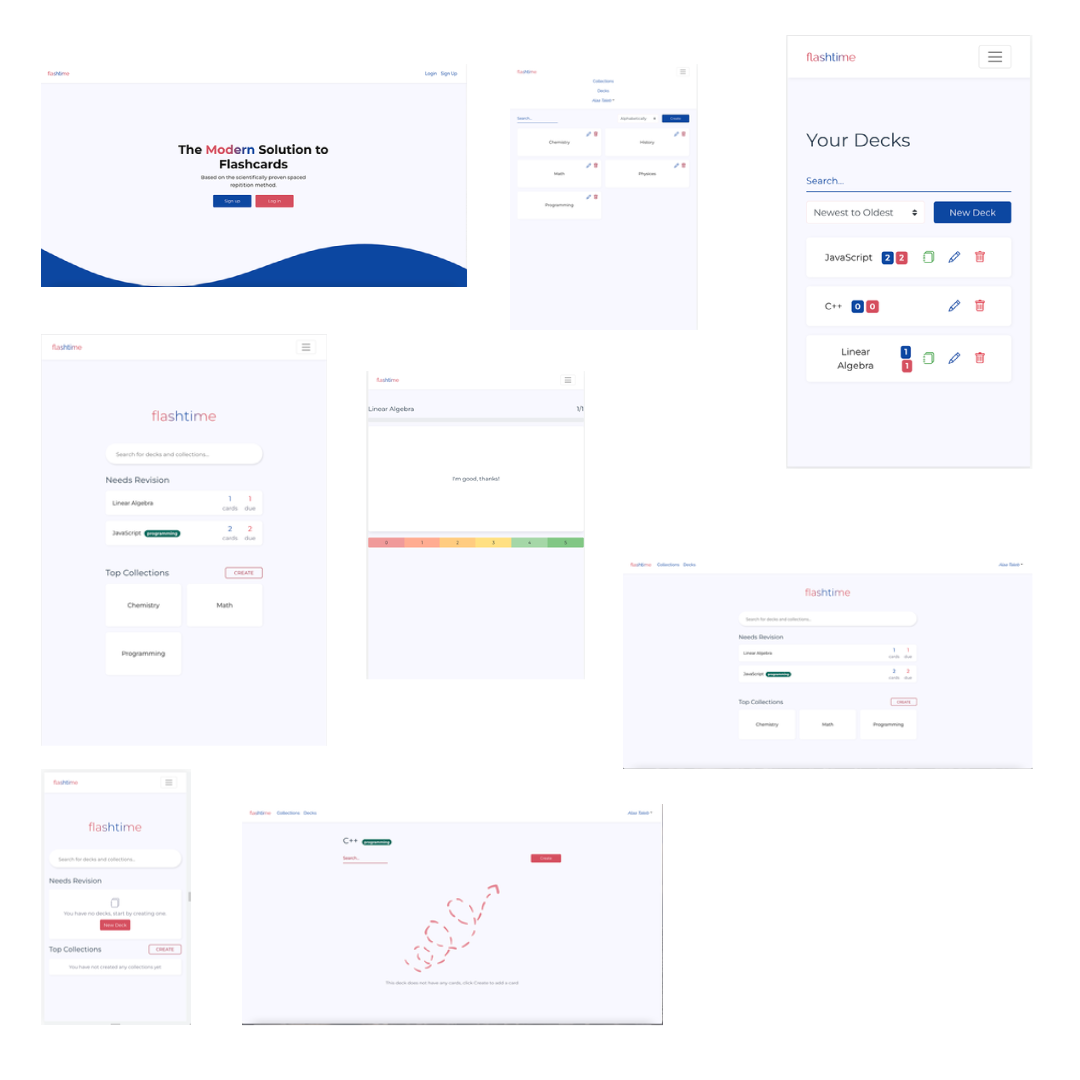
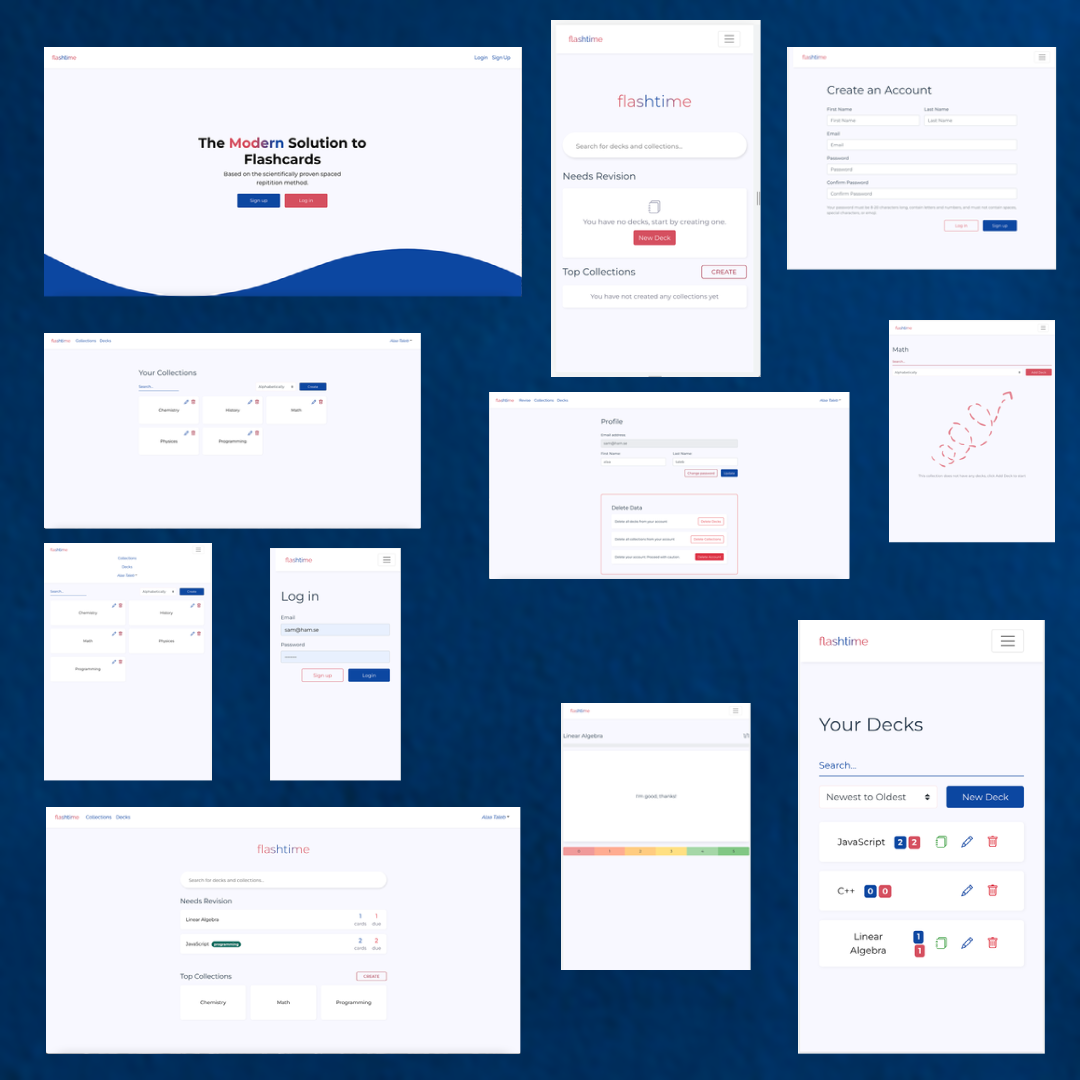
resolve readme pictures

diff --git a/README.md b/README.md
@@ -4,34 +4,34 @@ Latest version: https://git.ita.chalmers.se/courses/dit341/group-00-web (public 
 
 ## Project Structure
 
-| File        | Purpose           | What you do?  |
-| ------------- | ------------- | ----- |
-| `server/` | Backend server code | All your server code |
-| [server/README.md](server/README.md) | Everything about the server | **READ ME** carefully! |
-| `client/` | Frontend client code | All your client code |
-| [client/README.md](client/README.md) | Everything about the client | **READ ME** carefully! |
-| [docs/DEPLOYMENT.md](docs/DEPLOYMENT.md) | Free online production deployment | Deploy your app online in production mode |
-| [docs/LOCAL_DEPLOYMENT.md](docs/LOCAL_DEPLOYMENT.md) | Local production deployment | Deploy your app local in production mode |
+| File                                                 | Purpose                           | What you do?                              |
+| ---------------------------------------------------- | --------------------------------- | ----------------------------------------- |
+| `server/`                                            | Backend server code               | All your server code                      |
+| [server/README.md](server/README.md)                 | Everything about the server       | **READ ME** carefully!                    |
+| `client/`                                            | Frontend client code              | All your client code                      |
+| [client/README.md](client/README.md)                 | Everything about the client       | **READ ME** carefully!                    |
+| [docs/DEPLOYMENT.md](docs/DEPLOYMENT.md)             | Free online production deployment | Deploy your app online in production mode |
+| [docs/LOCAL_DEPLOYMENT.md](docs/LOCAL_DEPLOYMENT.md) | Local production deployment       | Deploy your app local in production mode  |
 
 ## Requirements
 
 The version numbers in brackets indicate the tested versions but feel free to use more recent versions.
 You can also use alternative tools if you know how to configure them (e.g., Firefox instead of Chrome).
 
-* [Git](https://git-scm.com/) (v2) => [installation instructions](https://www.atlassian.com/git/tutorials/install-git)
-  * [Add your Git username and set your email](https://docs.gitlab.com/ce/gitlab-basics/start-using-git.html#add-your-git-username-and-set-your-email)
-    * `git config --global user.name "YOUR_USERNAME"` => check `git config --global user.name`
-    * `git config --global user.email "email@example.com"` => check `git config --global user.email`
-  * > **Windows users**: We recommend to use the [Git Bash](https://www.atlassian.com/git/tutorials/git-bash) shell from your Git installation or the Bash shell from the [Windows Subsystem for Linux](https://docs.microsoft.com/en-us/windows/wsl/install-win10) to run all shell commands for this project.
-* [Chalmers GitLab](https://git.ita.chalmers.se/) => Login with your **Chalmers CID** choosing "Sign in with" **Chalmers Login**. (contact [support@chalmers.se](mailto:support@chalmers.se) if you don't have one)
-  * DIT341 course group: https://git.ita.chalmers.se/courses/dit341
-  * [Setup SSH key with Gitlab](https://docs.gitlab.com/ee/ssh/)
-    * Create an SSH key pair `ssh-keygen -t ed25519 -C "email@example.com"` (skip if you already have one)
-    * Add your public SSH key to your Gitlab profile under https://git.ita.chalmers.se/profile/keys
-    * Make sure the email you use to commit is registered under https://git.ita.chalmers.se/profile/emails
-  * Checkout the [Backend-Frontend](https://git.ita.chalmers.se/courses/dit341/group-00-web) template `git clone git@git.ita.chalmers.se:courses/dit341/group-00-web.git`
-* [Server Requirements](./server/README.md#Requirements)
-* [Client Requirements](./client/README.md#Requirements)
+- [Git](https://git-scm.com/) (v2) => [installation instructions](https://www.atlassian.com/git/tutorials/install-git)
+  - [Add your Git username and set your email](https://docs.gitlab.com/ce/gitlab-basics/start-using-git.html#add-your-git-username-and-set-your-email)
+    - `git config --global user.name "YOUR_USERNAME"` => check `git config --global user.name`
+    - `git config --global user.email "email@example.com"` => check `git config --global user.email`
+  - > **Windows users**: We recommend to use the [Git Bash](https://www.atlassian.com/git/tutorials/git-bash) shell from your Git installation or the Bash shell from the [Windows Subsystem for Linux](https://docs.microsoft.com/en-us/windows/wsl/install-win10) to run all shell commands for this project.
+- [Chalmers GitLab](https://git.ita.chalmers.se/) => Login with your **Chalmers CID** choosing "Sign in with" **Chalmers Login**. (contact [support@chalmers.se](mailto:support@chalmers.se) if you don't have one)
+  - DIT341 course group: https://git.ita.chalmers.se/courses/dit341
+  - [Setup SSH key with Gitlab](https://docs.gitlab.com/ee/ssh/)
+    - Create an SSH key pair `ssh-keygen -t ed25519 -C "email@example.com"` (skip if you already have one)
+    - Add your public SSH key to your Gitlab profile under https://git.ita.chalmers.se/profile/keys
+    - Make sure the email you use to commit is registered under https://git.ita.chalmers.se/profile/emails
+  - Checkout the [Backend-Frontend](https://git.ita.chalmers.se/courses/dit341/group-00-web) template `git clone git@git.ita.chalmers.se:courses/dit341/group-00-web.git`
+- [Server Requirements](./server/README.md#Requirements)
+- [Client Requirements](./client/README.md#Requirements)
 
 ## Getting started
 
@@ -65,17 +65,17 @@ The main purpose is to enhance the learning experience of the website's users by
 
 ### Pages
 
-* **Home:** where users can read  about the website, can sign up and Login.
-* **Login:** Where the user type their username and password to get accesise to their dashboard.
-* **Signup:** The user can enter their details and sign up for an account.
-* **Dashboard:** This is the logged in area where the user can see/manage their cards(which needs to be revise), collections. There is a search bar where user can search for specific collection or decks.
-* **Revise page:** This is the page where the user performs their revisions based on the aforementioned algorithm.
-* **Revision page:** Where user can see all of their decks that include cards that needs to be revised.
-* **Collection page:** This is the page where user can see all the collections. User can sort the collection alphabetically, newest to oldest and oldest to newest, as well as user can serach for specific collection. In addition user can delete, edit and create the collection.
-* **Deck page:** This is the page where user can see all the decks. User can sort decks alphabetically, newest to oldest, oldest to newest and by number of cards, as well as user can serach for specific deck. In addition user can delete, edit, revise and create the deck.
-* **Card page:** This is the page where user can see all the cards. User can serach for specific card. In addition user can delete, edit, and create the card.
-* **Profile page:** This is the page where user can change their firstname and lastname. In addition user can delete all their decks, collections as well as their account.  
-* **Change password:** Where users are able to change their password.
+- **Home:** where users can read about the website, can sign up and Login.
+- **Login:** Where the user type their username and password to get accesise to their dashboard.
+- **Signup:** The user can enter their details and sign up for an account.
+- **Dashboard:** This is the logged in area where the user can see/manage their cards(which needs to be revise), collections. There is a search bar where user can search for specific collection or decks.
+- **Revise page:** This is the page where the user performs their revisions based on the aforementioned algorithm.
+- **Revision page:** Where user can see all of their decks that include cards that needs to be revised.
+- **Collection page:** This is the page where user can see all the collections. User can sort the collection alphabetically, newest to oldest and oldest to newest, as well as user can serach for specific collection. In addition user can delete, edit and create the collection.
+- **Deck page:** This is the page where user can see all the decks. User can sort decks alphabetically, newest to oldest, oldest to newest and by number of cards, as well as user can serach for specific deck. In addition user can delete, edit, revise and create the deck.
+- **Card page:** This is the page where user can see all the cards. User can serach for specific card. In addition user can delete, edit, and create the card.
+- **Profile page:** This is the page where user can change their firstname and lastname. In addition user can delete all their decks, collections as well as their account.
+- **Change password:** Where users are able to change their password.
 
 ### Entity-Relationship (ER) Diagram
 
@@ -83,4 +83,4 @@ The main purpose is to enhance the learning experience of the website's users by
 
 ## Teaser (MS3)
 
-![Teaser](./images/Myproject-1(1).png)
+![Teaser](./images/flashtime-teaser.png)
